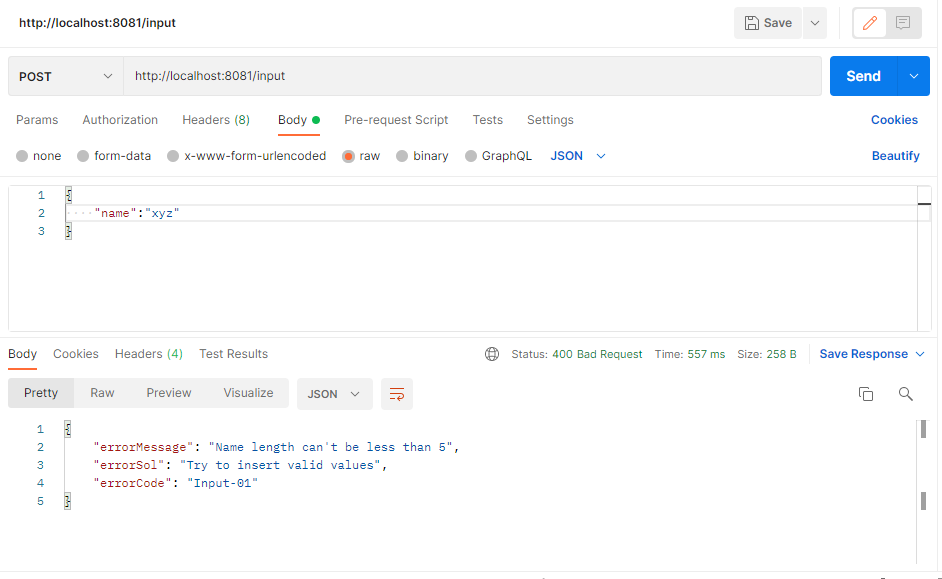
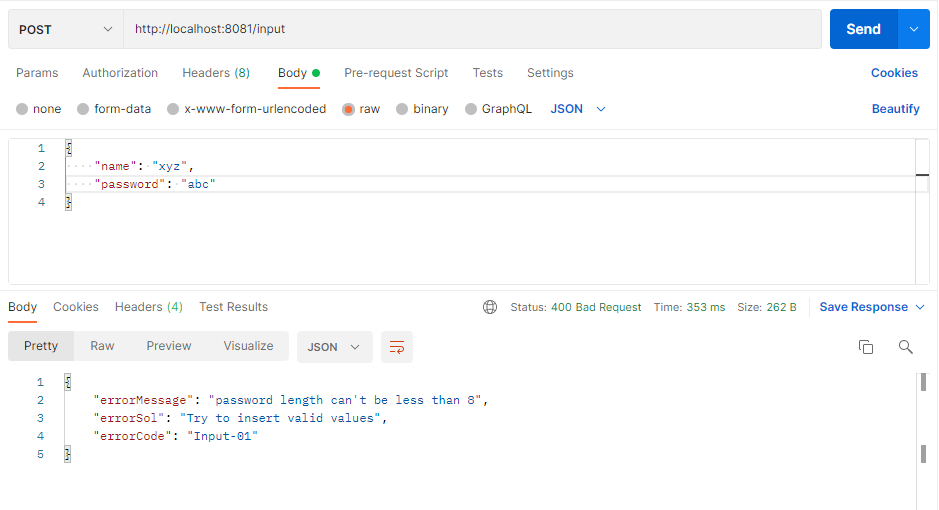
exception change

diff --git a/src/main/java/com/example/CustomException/service/InputService.java b/src/main/java/com/example/CustomException/service/InputService.java
@@ -10,8 +10,12 @@ import org.springframework.stereotype.Service;
 public class InputService {
 
     public ResponseEntity<Object> handleInput(InputDto inputDto) {
-        if (inputDto.getName().length() < 5)
-            throw new InputException("Name length can't be less than 5");
+        if (inputDto.getName() == null)
+            throw new InputException("name can't be empty");
+        if (inputDto.getPassword() == null)
+            throw new InputException("password can't be empty");
+        if (inputDto.getPassword().length() < 8)
+            throw new InputException("password length can't be less than 8");
         return new ResponseEntity<>("success", HttpStatus.OK);
     }
 }
